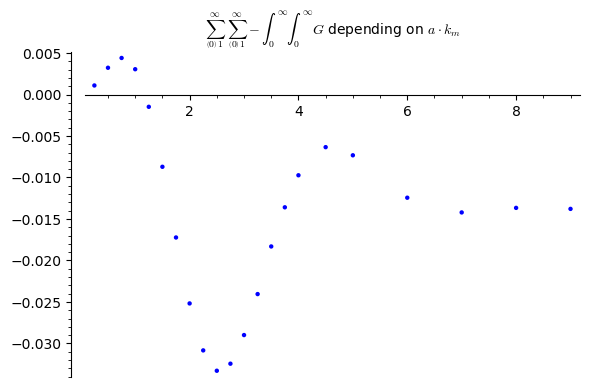
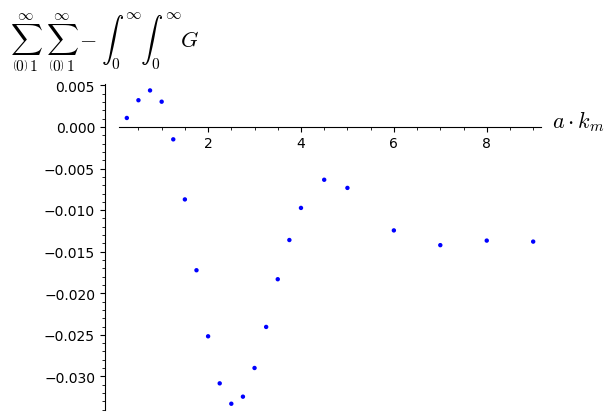
Casimir_honeycomb_Rp.ipynb update

diff --git a/casimir/Casimir_honeycomb_drive/Casimir_honeycomb_drive.tex b/casimir/Casimir_honeycomb_drive/Casimir_honeycomb_drive.tex
@@ -1025,7 +1025,7 @@ $a \cdot k_m$ & $\sum\limits_{\left(0\right)\,1}^{\infty}\sum\limits_{\left(0\ri
 
 \begin{figure}
 \includegraphics[width=0.46\textwidth]{sum_sum_int_int_G_on_a_km.png}
-\caption{}{\centering{\textbf{Fig.2.} How $\delta\left(E/V\right)$ depends on $a k_m$}}
+\caption{}{\centering{\textbf{Fig.2.} How $\sum\limits_{\left(0\right)\,1}^{\infty}\,\,\sum\limits_{\left(0\right)\,1}^{\infty}-\int\limits_{0}^{\infty}\int\limits_{0}^{\infty}G$ depends on $a \cdot k_m$}}
 \label{fig:G_on_a_km}
 \end{figure}
 
